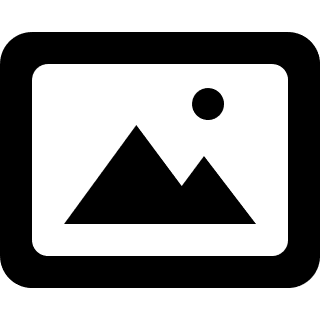
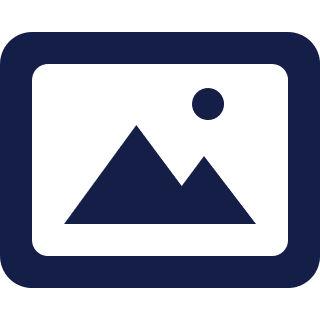
styles

diff --git a/screens/HomeScreen.js b/screens/HomeScreen.js
@@ -1,5 +1,5 @@
 import React from "react";
-import { View, Text, Button, StyleSheet, TouchableOpacity, Image } from "react-native";
+import { View, Text, Button, StyleSheet, TouchableOpacity, Image, ScrollView } from "react-native";
 import { useNavigation } from "@react-navigation/native";
 import { Feather } from '@expo/vector-icons';
 import ExperienceComponent from './components/ExperienceComponent';
@@ -12,7 +12,7 @@ const HomeScreen = () => {
     const navigation = useNavigation();
 
     return (
-        <View >
+        <ScrollView style={{ backgroundColor: 'FFF5E0' }}>
             <View style={{ margin: 10, justifyContent: "left", alignContent: "center", alignItems: "center", flexDirection: "row" }}>
                 <TouchableOpacity
                     style={{
@@ -28,7 +28,7 @@ const HomeScreen = () => {
                     }}
                     onPress={() => navigation.navigate('ProfileScreen')}
                 >
-                    <Feather name="user" size={24} color="black" />
+                    <Feather name="user" size={24} color="#141E46" />
                 </TouchableOpacity>
                 <Text style={{
                     position: "relative",
@@ -38,34 +38,65 @@ const HomeScreen = () => {
                     alignItems: "center",
                     alignSelf: "center",
                     marginTop: "10%",
-                    marginLeft: "5%"
+                    marginLeft: "5%",
+                    color: "#141E46"
 
                 }}>userName</Text>
             </View>
             <Text style={{
                 fontSize: 30,
+                fontWeight: 'bold',
                 textAlign: 'center',
                 marginTop: "10%",
                 marginBottom: "15%",
-                margin: "5%"
-
-
+                margin: "5%",
+                color: "#41B06E"
             }}>Where do you want to travel today?</Text>
 
             <View style={{ padding: 10, justifyContent: "center", alignContent: "center", alignItems: "flex-start" }}>
-                <Text style={{ marginStart: 15, fontSize: 20 }}>Suggestions</Text>
-                <View style={{ margin: 20, flexDirection: "row", alignItems: "center", marginBottom: 40, flexWrap: "wrap" }}>
+                <Text style={{ marginStart: 15, fontSize: 20, color: "#141E46" }}>Suggestions</Text>
+                <View style={{ margin: 5, flexDirection: "row", alignItems: "center", marginBottom: 40, flexWrap: "wrap" }}>
                     <TouchableOpacity onPress={() => navigation.navigate('CameraScreen')}>
                         <ExperienceComponent
                             preview={require("../assets/previewTest.png")}
                             title="Monas chinas"
                             description="anime catgirls" />
                     </TouchableOpacity>
+                    <TouchableOpacity onPress={() => navigation.navigate('CameraScreen')}>
+                        <ExperienceComponent
+                            preview={require("../assets/image-icon.png")}
+                            title="Title"
+                            description="Description" />
+                    </TouchableOpacity>
+                    <TouchableOpacity onPress={() => navigation.navigate('CameraScreen')}>
+                        <ExperienceComponent
+                            preview={require("../assets/image-icon.png")}
+                            title="Title"
+                            description="Description" />
+                    </TouchableOpacity>
+                    <TouchableOpacity onPress={() => navigation.navigate('CameraScreen')}>
+                        <ExperienceComponent
+                            preview={require("../assets/image-icon.png")}
+                            title="Title"
+                            description="Description" />
+                    </TouchableOpacity>
+                    <TouchableOpacity onPress={() => navigation.navigate('CameraScreen')}>
+                        <ExperienceComponent
+                            preview={require("../assets/image-icon.png")}
+                            title="Title"
+                            description="Description" />
+                    </TouchableOpacity>
+                    <TouchableOpacity onPress={() => navigation.navigate('CameraScreen')}>
+                        <ExperienceComponent
+                            preview={require("../assets/image-icon.png")}
+                            title="Title"
+                            description="Description" />
+                    </TouchableOpacity>
                 </View>
             </View>
 
 
-        </View >
+        </ScrollView >
     );
 }
 

diff --git a/screens/LoginScreen.js b/screens/LoginScreen.js
@@ -19,7 +19,7 @@ const LoginScreen = () => {
 
     return (
 
-        <View style={{ flex: 1, justifyContent: 'center', alignItems: 'center' }}>
+        <View style={{ flex: 1, justifyContent: 'center', alignItems: 'center', backgroundColor: 'FFF5E0' }}>
             <View>
                 <Image
                     style={{ width: 250, height: 250 }}
@@ -29,27 +29,27 @@ const LoginScreen = () => {
             </View>
 
             <View style={{ padding: 10, marginBottom: 10 }}>
-                <Text style={{ fontSize: 24 }}> Log in </Text>
+                <Text style={{ fontSize: 24, color: '#41B06E', fontWeight: 800 }}> Log in </Text>
             </View>
 
-            <View style={{ margin: 20, padding: 20, width: 300, justifyContent: 'center', borderColor: 'black', borderWidth: 1, borderRadius: 10 }}>
+            <View style={{ margin: 20, padding: 20, width: 300, justifyContent: 'center', borderColor: '#141E46', borderWidth: 1, borderRadius: 10 }}>
 
-                <Text style={{ fontSize: 16 }}> Email </Text>
-                <TextInput style={{ fontSize: 20, margin: 10, borderColor: 'black', borderWidth: 1, borderRadius: 5, textAlign: 'center' }}
+                <Text style={{ fontSize: 16, color: '#141E46' }}> Email </Text>
+                <TextInput style={{ fontSize: 20, margin: 10, borderColor: '#141E46', borderWidth: 1, borderRadius: 5, textAlign: 'center' }}
                     placeholder="Email"
                     autoCapitalize="none"
                 />
-                <Text style={{ fontSize: 16 }}> Password </Text>
-                <TextInput style={{ fontSize: 20, margin: 10, borderColor: 'black', borderWidth: 1, borderRadius: 5, textAlign: 'center' }}
+                <Text style={{ fontSize: 16, color: '#141E46' }}> Password </Text>
+                <TextInput style={{ fontSize: 20, margin: 10, borderColor: '#141E46', borderWidth: 1, borderRadius: 5, textAlign: 'center' }}
                     placeholder="Password"
                     secureTextEntry={true}
                 />
                 <View>
-                    <Text onPress={() => navigation.navigate('ForgotPassword')} style={{ fontSize: 12, marginTop: 1, margin: 10, textAlign: 'right', color: "blue", }}>Forgot password? </Text>
+                    <Text onPress={() => navigation.navigate('ForgotPassword')} style={{ fontSize: 12, marginTop: 1, margin: 10, textAlign: 'right', color: "#73C2FB", fontWeight: 400 }}>Forgot password? </Text>
                 </View>
                 <TouchableOpacity style={
                     {
-                        backgroundColor: 'blue',
+                        backgroundColor: '#8DECB4',
                         padding: 10,
                         borderRadius: 6,
                         alignItems: 'center',
@@ -59,12 +59,12 @@ const LoginScreen = () => {
                         width: 100
                     }
                 } onPress={() => navigation.navigate('HomeScreen')}>
-                    <Text style={{ fontSize: 16, marginTop: 1, textAlign: 'center', color: "white", }} >Log in</Text>
+                    <Text style={{ fontSize: 16, marginTop: 1, textAlign: 'center', color: "#141E46", }} >Log in</Text>
                 </TouchableOpacity>
 
             </View>
             <View>
-                <Text onPress={() => navigation.navigate('SignUp')} style={{ fontSize: 16, marginTop: 1, margin: 10, textAlign: 'center', color: "blue", }}>Sign Up </Text>
+                <Text onPress={() => navigation.navigate('SignUp')} style={{ fontSize: 16, marginTop: 1, margin: 10, textAlign: 'center', color: "#73C2FB", fontWeight: 600 }}>Sign Up </Text>
             </View>
         </View >
     );

diff --git a/screens/SearchScreen.js b/screens/SearchScreen.js
@@ -10,22 +10,24 @@ const SearchScreen = () => {
     const navigation = useNavigation();
 
     return (
-        <ScrollView>
+        <ScrollView style={{ backgroundColor: 'FFF5E0' }}>
             <Text style={{
                 fontSize: 24,
+                fontWeight: 'bold',
                 textAlign: 'left',
                 marginTop: "20%",
-                marginLeft: "5%"
+                marginLeft: "5%",
+                color: "#41B06E"
 
             }}>Search </Text>
-            <TextInput style={{ fontSize: 24, margin: 20, borderColor: 'black', borderWidth: 1, borderRadius: 6, textAlign: 'center' }}
+            <TextInput style={{ fontSize: 24, margin: 20, borderColor: '#141E46', borderWidth: 1, borderRadius: 6, textAlign: 'center' }}
                 placeholder=""
                 autoCapitalize="none"
 
             />
             <View style={{ padding: 10, justifyContent: "center", alignContent: "center", alignItems: "flex-start" }}>
-                <Text style={{ marginStart: 15, fontSize: 20 }}>Suggestions</Text>
-                <View style={{ margin: 20, flexDirection: "row", alignItems: "center", alignContent: "center", alignSelf: "center", marginBottom: 40, flexWrap: "wrap", gap: 60 }}>
+                <Text style={{ marginStart: 15, fontSize: 20, color: "#141E46" }}>Suggestions</Text>
+                <View style={{ margin: 5, flexDirection: "row", alignItems: "center", alignContent: "center", alignSelf: "center", marginBottom: 40, flexWrap: "wrap", gap: 0 }}>
                     <TouchableOpacity onPress={() => navigation.navigate('CameraScreen')}>
                         <ExperienceComponent
                             preview={require("../assets/image-icon.png")}

diff --git a/Navigation.js b/Navigation.js
@@ -76,6 +76,9 @@ function MyTabs() {
         <Tab.Navigator
             initialRouteName="Home"
             screenOptions={{ headerShown: false }}
+            barStyle={{ backgroundColor: '#41B06E' }}
+            inactiveColor="#141E46"
+            activeColor="#FFF5E0"
 
         >
             <Tab.Screen
@@ -83,21 +86,22 @@ function MyTabs() {
                 component={HomeStack}
                 options={{
                     tabBarLabel: 'Home',
-                    tabBarIcon: ({ size, color }) => (<Feather name="home" size={24} color="black" />),
+                    tabBarIcon: ({ size, color }) => (<Feather name="home" size={24} color="#141E46" />),
+
                 }} />
             <Tab.Screen
                 name="Setting"
                 component={SearchScreen}
                 options={{
                     tabBarLabel: 'Search',
-                    tabBarIcon: ({ size, color }) => (<Feather name="search" size={24} color="black" />),
+                    tabBarIcon: ({ size, color }) => (<Feather name="search" size={24} color="#141E46" />),
                 }} />
             <Tab.Screen
                 name="Profile"
                 component={ProfileScreen}
                 options={{
                     tabBarLabel: 'Profile',
-                    tabBarIcon: ({ size, color }) => (<Feather name="user" size={24} color="black" />),
+                    tabBarIcon: ({ size, color }) => (<Feather name="user" size={24} color="#141E46" />),
                 }} />
 
         </Tab.Navigator>

diff --git a/screens/components/ExperienceComponent.js b/screens/components/ExperienceComponent.js
@@ -18,18 +18,21 @@ const styles = {
         padding: 2,
         marginBottom: 20,
         marginEnd: 20,
+        color: "#73C2FB"
     },
     title: {
         fontSize: 20,
         fontWeight: 'bold',
-        marginTop: 10,
+        marginTop: 5,
+        color: "#41B06E"
     },
     description: {
         fontSize: 16,
-        marginTop: 5,
+        marginTop: 2,
+        color: "#141E46"
     },
     preview: {
-        width: 100,
+        width: 150,
         height: 100,
         borderRadius: 10,
     },
